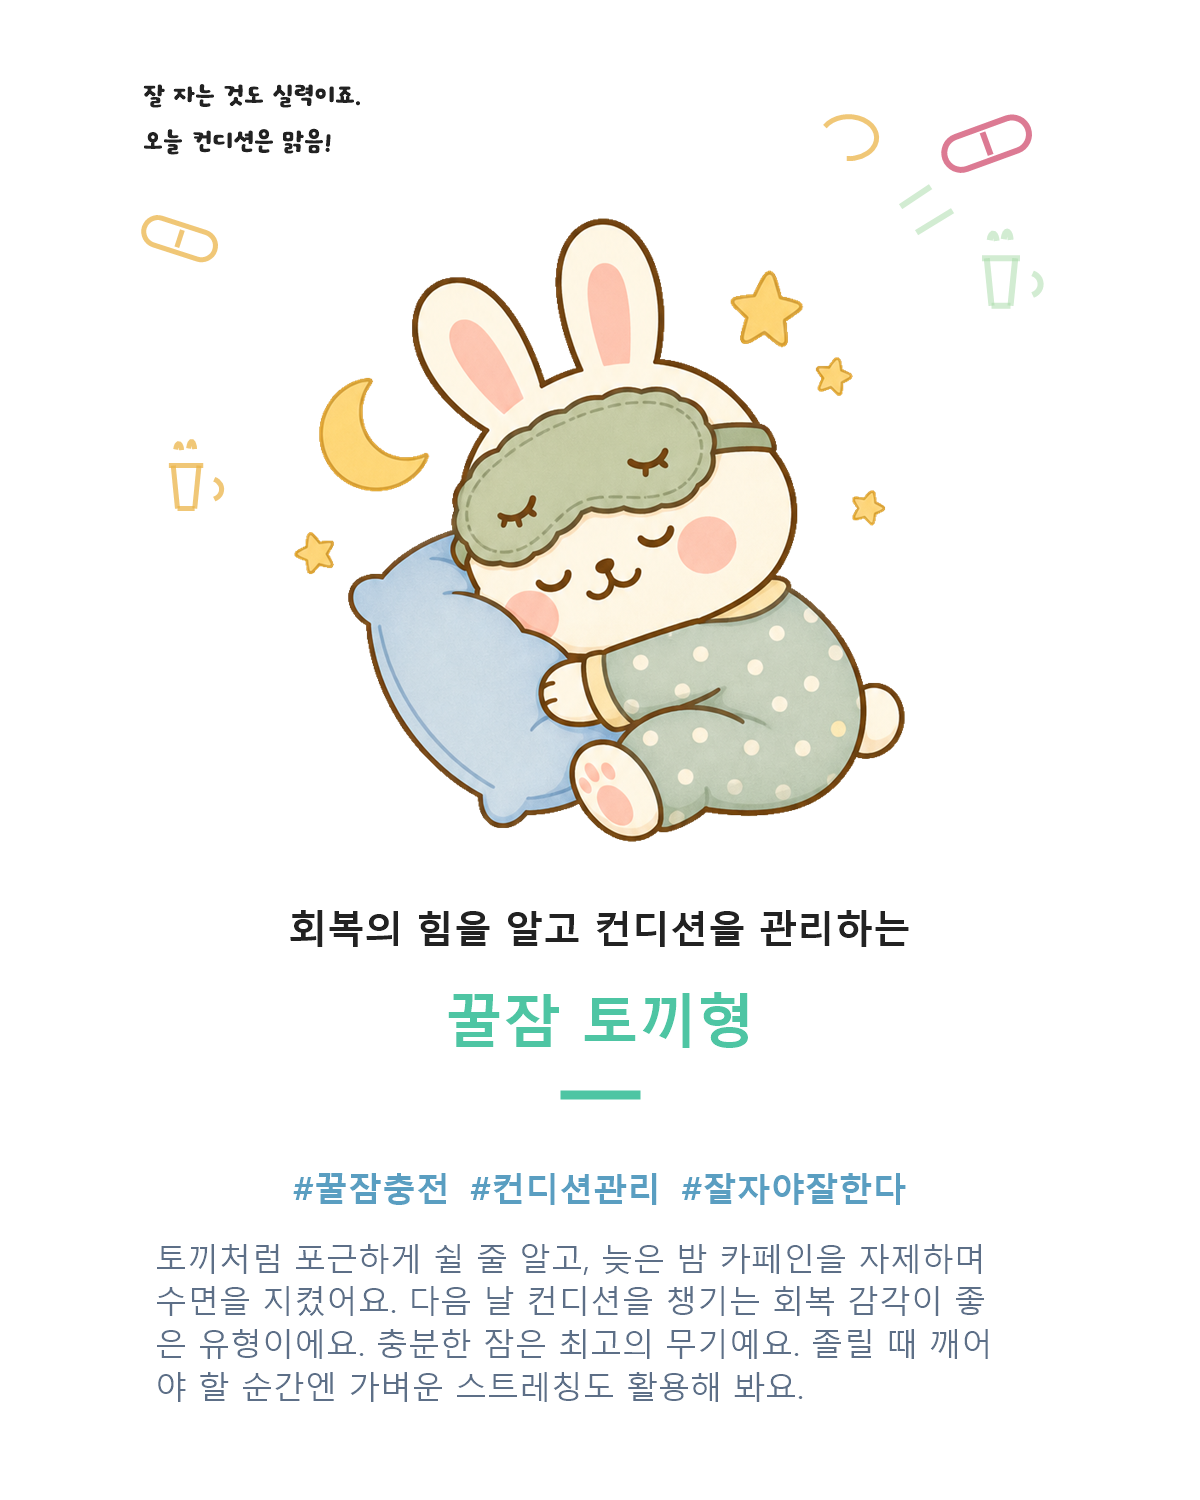
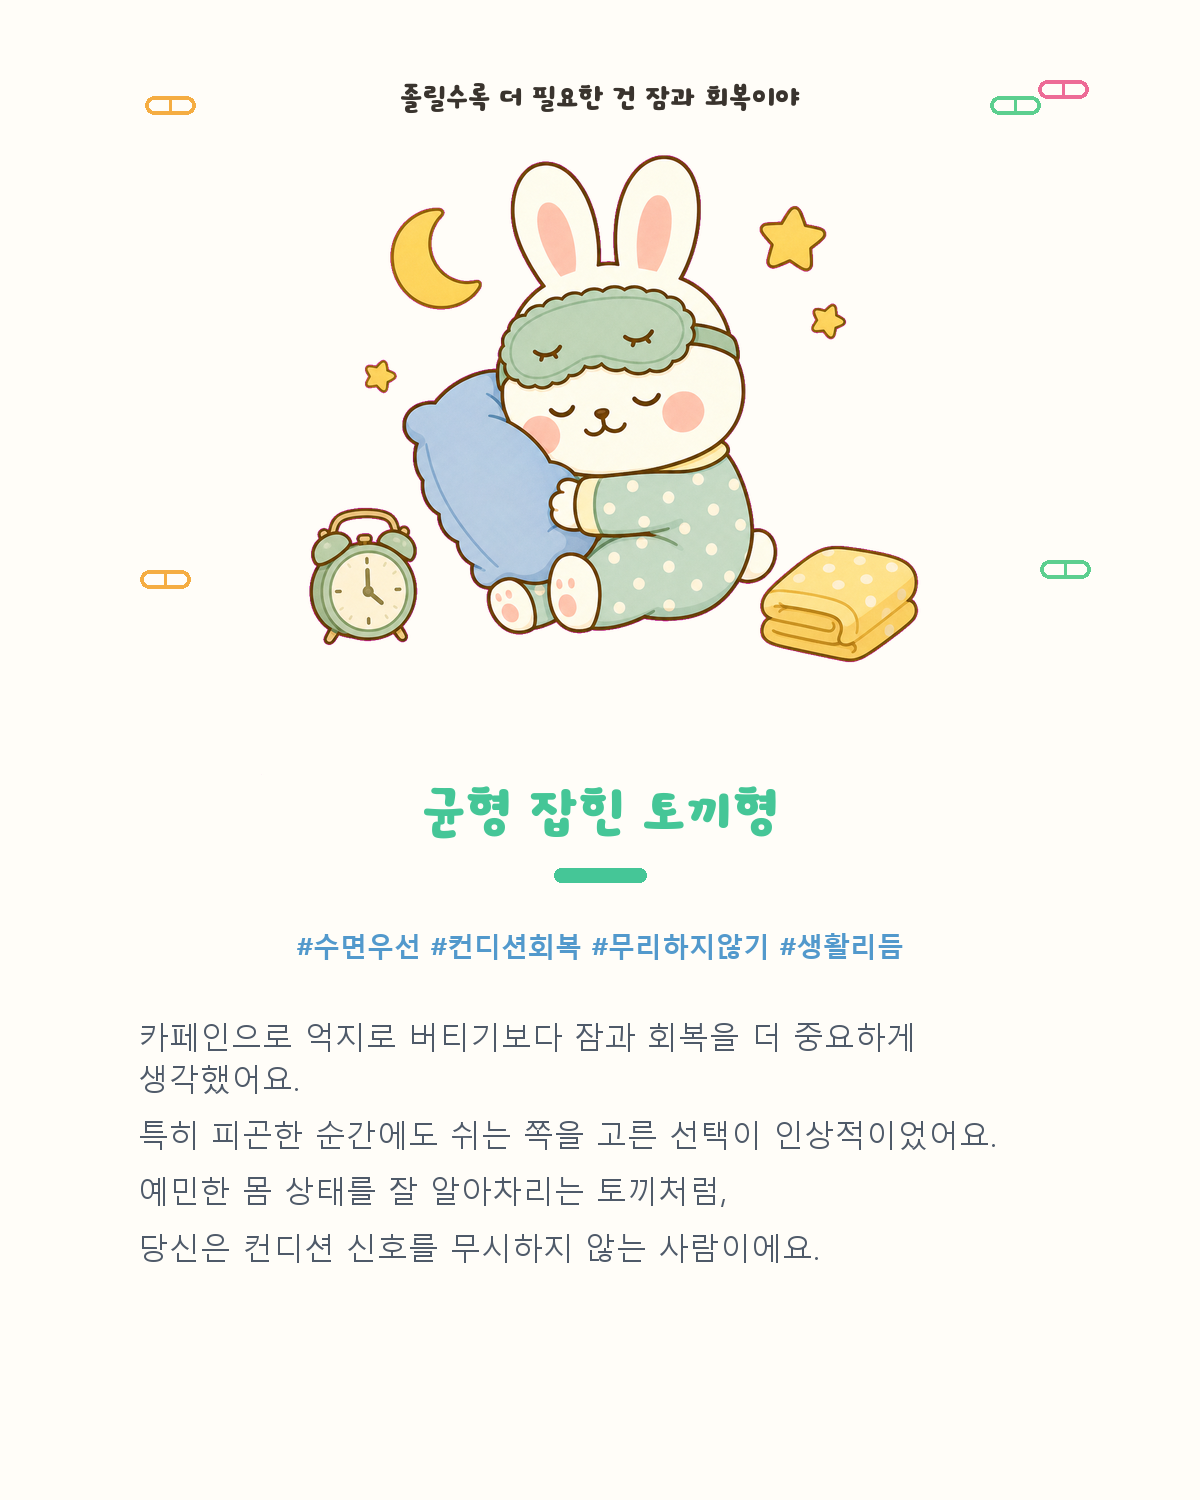
수정 반영

diff --git a/index.html b/index.html
@@ -6596,27 +6596,27 @@ const TYPE_RESULT_CARDS = {
   selfControl: {
     key:'selfControl',
     file:'01_squirrel_self_control_result.png',
-    title:'똑똑한 선택 다람쥐형'
+    title:'신중한 다람쥐형'
   },
   hydration: {
     key:'hydration',
     file:'02_bear_hydration_result.png',
-    title:'수분 충전 곰형'
+    title:'든든한 곰형'
   },
   courage: {
     key:'courage',
     file:'03_frog_courage_result.png',
-    title:'용기 개구리형'
+    title:'재빠른 개구리형'
   },
   medicineKnowledge: {
     key:'medicineKnowledge',
     file:'04_owl_medicine_knowledge_result.png',
-    title:'현명한 부엉이형'
+    title:'꼼꼼한 부엉이형'
   },
   sleep: {
     key:'sleep',
     file:'05_rabbit_sleep_result.png',
-    title:'꿀잠 토끼형'
+    title:'균형 잡힌 토끼형'
   },
   focus: {
     key:'focus',
@@ -6626,12 +6626,12 @@ const TYPE_RESULT_CARDS = {
   balance: {
     key:'balance',
     file:'07_meerkat_balance_result.png',
-    title:'균형 미어캣형'
+    title:'침착한 미어캣형'
   },
   caffeineWarning: {
     key:'caffeineWarning',
     file:'08_hamster_caffeine_warning_result.png',
-    title:'카페인 과속 햄스터형'
+    title:'점검이 필요한 햄스터형'
   }
 };
 
@@ -6680,19 +6680,31 @@ function typeAnimalLabel(card) {
 }
 
 function typeReasonText(card, ctx) {
-  const animal = typeAnimalLabel(card);
-  const low = ctx.min?.label ? ` 가장 낮은 지표는 ${ctx.min.label}(${ctx.min.value}점)이어서 다음에는 이 부분을 더 챙기면 좋아요.` : '';
   const reasons = {
-    selfControl: `카페인이나 즉흥적인 권유에 휩쓸리기보다 스스로 한계선을 지킨 선택이 많이 쌓였어요. 약과 음료를 고를 때 멈춰서 확인한 태도가 ${animal}으로 이어졌습니다.`,
-    hydration: `무리하게 버티기보다 몸 상태와 수분 보충을 먼저 챙긴 선택이 돋보였어요. 카페인 의존을 낮추고 체력을 지킨 흐름이 ${animal}으로 이어졌습니다.`,
-    courage: `친구나 주변 사람이 위험한 선택을 할 수 있는 순간에 그냥 넘기지 않고 알려주려는 선택이 쌓였어요. 나뿐 아니라 주변 사람까지 지키려는 태도가 ${animal}으로 이어졌습니다.`,
-    medicineKnowledge: `성분표와 주의사항을 확인하는 선택이 많이 쌓였어요. 약 이름보다 성분, 복용 간격, 중복 복용 위험을 살핀 점이 ${animal}으로 이어졌습니다.`,
-    sleep: `카페인으로 억지로 버티기보다 잠과 회복을 선택한 흐름이 강했어요. 시험 전 컨디션을 위해 수면을 챙긴 선택이 ${animal}으로 이어졌습니다.`,
-    focus: `한 가지 지표만 높이기보다 지식, 체력, 컨디션을 함께 유지하려는 선택이 쌓였어요. 꾸준히 기본을 챙긴 흐름이 ${animal}으로 이어졌습니다.${low}`,
-    balance: `큰 위험 선택을 피하면서 여러 지표를 고르게 유지했어요. 특정 능력치에만 치우치지 않고 균형 있게 관리한 결과가 ${animal}으로 이어졌습니다.`,
-    caffeineWarning: `카페인 음료나 카페인과 약을 함께 고려하는 위험 선택이 누적되었어요. 짧은 각성 효과를 좇은 선택이 많아져 ${animal}으로 이어졌습니다.`
+    selfControl: `카페인이나 즉흥적인 권유 앞에서도 쉽게 휩쓸리지 않고, 한 번 더 확인하는 선택이 많았어요.\n내 몸에 맞는지 따져 보고 스스로 기준선을 지킨 태도가 신중한 다람쥐형으로 이어졌어요.`,
+    hydration: `무리해서 버티기보다 몸 상태를 먼저 살피고, 수분과 회복을 챙기는 선택이 두드러졌어요.\n내 페이스를 지키며 오래 갈 힘을 쌓아 온 흐름이 든든한 곰형으로 이어졌어요.`,
+    courage: `위험한 선택을 그냥 지나치지 않고, 친구나 주변 사람에게 먼저 알려주려는 태도가 여러 장면에서 드러났어요.\n나만이 아니라 주변까지 함께 지키려는 감각이 재빠른 개구리형으로 이어졌어요.`,
+    medicineKnowledge: `겉만 보고 넘기지 않고 성분표와 주의사항을 꼼꼼히 확인하는 선택이 많았어요.\n약 이름보다 성분, 복용 간격, 함께 먹으면 안 되는 경우까지 살핀 태도가 꼼꼼한 부엉이형으로 이어졌어요.`,
+    sleep: `카페인으로 억지로 버티기보다 잠과 회복을 더 중요하게 생각하는 흐름이 강했어요.\n피곤한 순간에도 컨디션 신호를 무시하지 않고 생활 리듬을 지키려 한 태도가 균형 잡힌 토끼형으로 이어졌어요.`,
+    focus: `한 번에 눈에 띄는 선택보다 기본을 꾸준히 챙기며 안정적으로 관리한 흐름이 보였어요.\n지식, 체력, 컨디션을 차곡차곡 쌓아 가는 태도가 꾸준한 거북이형으로 이어졌어요.`,
+    balance: `한쪽에 치우치기보다 전체 상황을 살피며 여러 지표를 고르게 유지하려는 선택이 인상적이었어요.\n큰 위험은 피하고 흐름 전체를 안정적으로 관리한 태도가 침착한 미어캣형으로 이어졌어요.`,
+    caffeineWarning: `피곤함을 빨리 해결하려다 카페인에 기대는 선택이 조금 많았고, 음료와 약을 함께 볼 때 놓친 부분이 있었을 수 있어요.\n잠깐 버티는 데 집중하기보다 카페인 양과 복용 간격을 한 번 더 점검할 필요가 있어 점검이 필요한 햄스터형으로 이어졌어요.`
   };
-  return reasons[card?.key] || `이번 선택 기록을 바탕으로 ${animal}이 나왔어요. 아래 지표를 보며 어떤 선택이 결과에 영향을 주었는지 확인해 보세요.`;
+  return reasons[card?.key] || `이번 선택 기록을 바탕으로 ${typeAnimalLabel(card)}이 나왔어요. 아래 지표를 보며 어떤 선택이 결과에 영향을 주었는지 확인해 보세요.`;
+}
+
+function typeReasonTitle(card) {
+  const titles = {
+    selfControl: '신중한 다람쥐형이 된 이유',
+    hydration: '든든한 곰형이 된 이유',
+    courage: '재빠른 개구리형이 된 이유',
+    medicineKnowledge: '꼼꼼한 부엉이형이 된 이유',
+    sleep: '균형 잡힌 토끼형이 된 이유',
+    focus: '꾸준한 거북이형이 된 이유',
+    balance: '침착한 미어캣형이 된 이유',
+    caffeineWarning: '점검이 필요한 햄스터형이 된 이유'
+  };
+  return titles[card?.key] || `${typeAnimalLabel(card)}이 된 이유`;
 }
 
 function drawRadar(){
@@ -6793,6 +6805,7 @@ function drawEndMsg(){
   });
   renderTypeResultCard(typeCard);
   const typeAnimal = typeAnimalLabel(typeCard);
+  const typeReasonHeading = typeReasonTitle(typeCard);
   const typeReason = typeReasonText(typeCard, {avg, min, max, allHigh, avgCaffeine, avgSleep, analgesics, fasting, combo, helped});
 
   let ending, title, msg, color;
@@ -6862,8 +6875,8 @@ function drawEndMsg(){
   document.getElementById('ending-title').style.color = color;
   document.getElementById('ending-sub').textContent = title;
   document.getElementById('ending-msg').innerHTML = `
-    <div style="font-family:'Jua',sans-serif;font-size:1rem;margin-bottom:8px;color:${color};">${escapeHtml(typeAnimal)}이 된 이유</div>
-    <div style="margin-bottom:12px;">${escapeHtml(typeReason)}</div>
+    <div style="font-family:'Jua',sans-serif;font-size:1rem;margin-bottom:8px;color:${color};">${escapeHtml(typeReasonHeading)}</div>
+    <div style="margin-bottom:12px;white-space:pre-line;">${escapeHtml(typeReason)}</div>
     <div style="display:grid;gap:7px;font-size:.82rem;line-height:1.55;">
       <div>☕ 총 카페인 섭취: <strong>${G.totalCaffeine||0}mg</strong> (평균 1일 ${avgCaffeine}mg)</div>
       <div>🌙 평균 수면 시간: <strong>${avgSleepText}</strong></div>

diff --git a/assets/type-action-cutouts-transparent/README.md b/assets/type-action-cutouts-transparent/README.md
@@ -1,0 +1,19 @@
+# Transparent Animal Action Cutouts
+
+This folder contains transparent PNG animal action cutouts for the main published game.
+
+Use files with this pattern in `health_game_publish/index.html`:
+
+```text
+assets/type-action-cutouts-transparent/01_squirrel_01_standard_stop.png
+...
+assets/type-action-cutouts-transparent/08_hamster_03_pause_needed.png
+```
+
+Supporting files:
+
+- `*_source_chromakey.png`: original generation source with chroma-key background.
+- `*_transparent_sheet.png`: three-pose transparent sheet for each animal.
+- `contact_sheet_preview.png`: visual QA preview on a checkerboard background.
+
+If only final runtime files are desired later, keep the numbered cutout PNGs and archive the supporting files after verifying the index.

diff --git a/assets/README.md b/assets/README.md
@@ -1,0 +1,19 @@
+# Published Game Assets
+
+This is the runtime asset folder for:
+
+```text
+health_game_publish/index.html
+```
+
+When adding or replacing images used by the main playable game, put the final files here.
+
+Important sibling folder:
+
+```text
+health_game_publish/drink_menu_previews/
+```
+
+That folder is also referenced directly by `health_game_publish/index.html`.
+
+Do not confuse this folder with root `assets/`, which is treated as working/source material.
